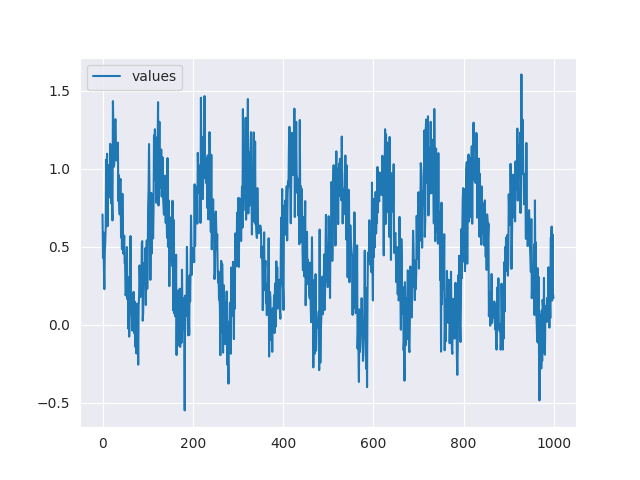
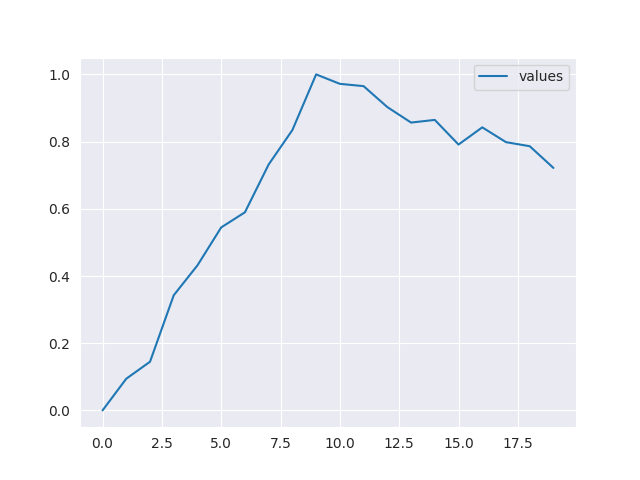
add seed

diff --git a/data/piecewise_linear.py b/data/piecewise_linear.py
@@ -1,9 +1,8 @@
 import numpy as np
-import pandas as pd
 from sklearn.preprocessing import MinMaxScaler
 
 
-def piecewise_linear(size=1000, num_seg=5, min_value=0, max_value=1):
+def piecewise_linear(rng, size=1000, num_seg=5, min_value=0, max_value=1):
     """
     Create a DataFrame with a piecewise linear function.
     The size of the segments is random
@@ -20,7 +19,7 @@ def piecewise_linear(size=1000, num_seg=5, min_value=0, max_value=1):
     """
     # Generate random breakpoints within the series, ensuring start and end points are included
     breakpoints = [0, size]
-    breakpoints.extend(np.random.choice(np.arange(1, size), num_seg - 1, replace=False))
+    breakpoints.extend(rng.choice(np.arange(1, size), num_seg - 1, replace=False))
     breakpoints.sort()
 
     ts = np.zeros(size)
@@ -28,12 +27,10 @@ def piecewise_linear(size=1000, num_seg=5, min_value=0, max_value=1):
     for i in range(num_seg):
         start_idx = breakpoints[i]
         end_idx = breakpoints[i + 1]
-        slope = np.random.uniform(-1, 1)
+        slope = rng.uniform(-1, 1)
         segment = slope * np.arange(end_idx - start_idx) + (
             0 if i == 0 else ts[start_idx - 1]
         )
         ts[start_idx:end_idx] = segment
-    return (
-        MinMaxScaler().fit_transform(ts.reshape(-1, 1)) * (max_value - min_value)
-        + min_value
-    )
+    ts = MinMaxScaler().fit_transform(ts.reshape(-1, 1))
+    return (ts * (max_value - min_value) + min_value).flatten()

diff --git a/example_lstm.py b/example_lstm.py
@@ -2,23 +2,32 @@ from data.data import Data
 from trainer.trainer import Trainer
 from utils import get_params
 import matplotlib.pyplot as plt
+import seaborn as sns
+import pandas as pd
 
 trainer_params = get_params("lstm_params.yaml")
+lookback = trainer_params["lookback"]
 
-data_params = {"difficulty": 100, "size": 1000}
-category = "piecewise_linear"
+size = 1000
+config = {"piecewise_linear": {"num_seg": 10}}
 
-train_df, val_df = Data(category, data_params, lookback=trainer_params["lookback"]).get(
-    split=(0.8, 0.2)
-)
+data = Data(size=size, config=config, lookback=lookback)
+train_df, val_df = data.get(split=(0.8, 0.2))
 
 trainer = Trainer(**trainer_params)
 trainer.train(train_df)
-trainer.val(val_df)
+val_loss, pred = trainer.val(val_df)
 
-plt.figure(figsize=(10, 6))
-train_df.plot()
-plt.title("Generated Time Series")
-plt.xlabel("Time")
-plt.ylabel("Value")
-# plt.show()
+
+train_df = train_df[lookback + 1 :].rename(columns={train_df.columns[0]: "train"})
+val_df = val_df[lookback + 1 :].assign(pred=pred).set_axis(["val", "pred"], axis=1)
+final = pd.concat([train_df, val_df], ignore_index=True, sort=False)
+
+
+sns.set_style("darkgrid")
+plt.figure(figsize=(12, 7))
+sns.lineplot(x=final.index, y=final["train"], label="train")
+sns.lineplot(x=final.index, y=final["val"], label="val")
+sns.lineplot(x=final.index, y=final["pred"], label="pred")
+plt.legend(loc="upper left")
+plt.show()

diff --git a/data/data.py b/data/data.py
@@ -20,20 +20,21 @@ _c = {
 
 
 class Data:
-    def __init__(self, size, config, lookback):
+    def __init__(self, size, config, lookback, seed):
         self.lookback = lookback
         self.size = size
+        rng = np.random.default_rng(seed)
         if lookback != None:
             size = size + lookback + 1
         self.data = pd.DataFrame({"values": np.zeros(size)}, index=range(size))
         for category, params in config.items():
-            self.data["values"] += _c[category](**params)
-        # self.data["values"] = MinMaxScaler().fit_transform(self.data[["values"]])
+            self.data["values"] += _c[category](size=size, rng=rng, **params)
+        self.data["values"] = MinMaxScaler().fit_transform(self.data[["values"]])
 
     def get(self, split=(0.8, 0.2)):
         if split:
-            train = self.data.iloc[: int(self.size * split[0] + self.lookback)]
-            val = self.data.iloc[-int(self.size * split[1] + self.lookback) :]
+            train = self.data.iloc[: int(self.size * split[0] + self.lookback + 1)]
+            val = self.data.iloc[-int(self.size * split[1] + self.lookback + 1) :]
             return train, val
         else:
             return self.data

diff --git a/data/uniform_piecewise_linear.py b/data/uniform_piecewise_linear.py
@@ -3,7 +3,7 @@ import pandas as pd
 from sklearn.preprocessing import MinMaxScaler
 
 
-def uniform_piecewise_linear(size=1000, num_seg=5, min_value=0, max_value=1):
+def uniform_piecewise_linear(rng, size=1000, num_seg=5, min_value=0, max_value=1):
     """
     Create a DataFrame with a piecewise linear function.
     The size of the segments is random
@@ -25,12 +25,10 @@ def uniform_piecewise_linear(size=1000, num_seg=5, min_value=0, max_value=1):
     for i in range(num_seg):
         start_idx = breakpoints[i]
         end_idx = breakpoints[i + 1]
-        slope = np.random.uniform(-1, 1)
+        slope = rng.uniform(-1, 1)
         segment = slope * np.arange(end_idx - start_idx) + (
             0 if i == 0 else ts[start_idx - 1]
         )
         ts[start_idx:end_idx] = segment
-    return (
-        MinMaxScaler().fit_transform(ts.reshape(-1, 1)) * (max_value - min_value)
-        + min_value
-    )
+    ts = MinMaxScaler().fit_transform(ts.reshape(-1, 1))
+    return (ts * (max_value - min_value) + min_value).flatten()

diff --git a/data/repeating.py b/data/repeating.py
@@ -1,8 +1,7 @@
 import numpy as np
-import pandas as pd
 
 
-def repeating(size=1000, period=10, min_value=0, max_value=1):
+def repeating(rng, size=1000, period=10, min_value=0, max_value=1):
     """
     Create a DataFrame with repeating values.
 
@@ -15,5 +14,5 @@ def repeating(size=1000, period=10, min_value=0, max_value=1):
     Returns:
     - numpy time series
     """
-    sequence = np.random.uniform(min_value, max_value, period)
+    sequence = rng.uniform(min_value, max_value, period)
     return np.tile(sequence, size // len(sequence) + 1)[:size]

diff --git a/trainer/trainer.py b/trainer/trainer.py
@@ -68,7 +68,7 @@ class Trainer:
     def val(self, x_val, info=True):
         x_val = torch.tensor(x_val.values, dtype=torch.float)
         dataset = SlidingWindowDataset(x_val, self.__lookback + 1)
-        dataloader = DataLoader(dataset, batch_size=self.__batch_size, shuffle=False)
+        dataloader = DataLoader(dataset, batch_size=len(dataset), shuffle=False)
 
         self.__model.eval()
 
@@ -83,4 +83,4 @@ class Trainer:
 
         self.__model.train()
 
-        return avg_loss
+        return avg_loss, pred

diff --git a/data/noise.py b/data/noise.py
@@ -2,7 +2,7 @@ import numpy as np
 import pandas as pd
 
 
-def noise(size=1000, mean=0, std_dev=1):
+def noise(rng, size=1000, mean=0, std_dev=1):
     """
     Generate a random time series with the given mean and standard deviation.
 
@@ -14,5 +14,5 @@ def noise(size=1000, mean=0, std_dev=1):
     Returns:
     - numpy time series
     """
-    random_series = np.random.randn(size)
+    random_series = rng.random(size)
     return random_series * std_dev + mean

diff --git a/example_data.py b/example_data.py
@@ -1,9 +1,10 @@
 from data.data import Data
 from plotting.plot import plot_time_series
 
-size = 1000
-config = {"sinusoidal": {"period": 100}, "noise": {"std_dev": 0.2}}
+size = 20
+seed = 42
+config = {"uniform_piecewise_linear": {"num_seg": 2}, "noise": {"std_dev": 0.1}}
 
-df = Data(size=size, config=config, lookback=None).get(split=False)
+df = Data(size=size, seed=seed, config=config, lookback=None).get(split=False)
 print(df)
 plot_time_series(df, f"plot")

diff --git a/data/sinusoidal.py b/data/sinusoidal.py
@@ -1,8 +1,7 @@
 import numpy as np
-import pandas as pd
 
 
-def sinusoidal(size=1000, period=100, phase_offset=0, min_value=0, max_value=1):
+def sinusoidal(rng, size=1000, period=100, phase_offset=0, min_value=0, max_value=1):
     """
     Create a DataFrame with sinusoidal values.
 
